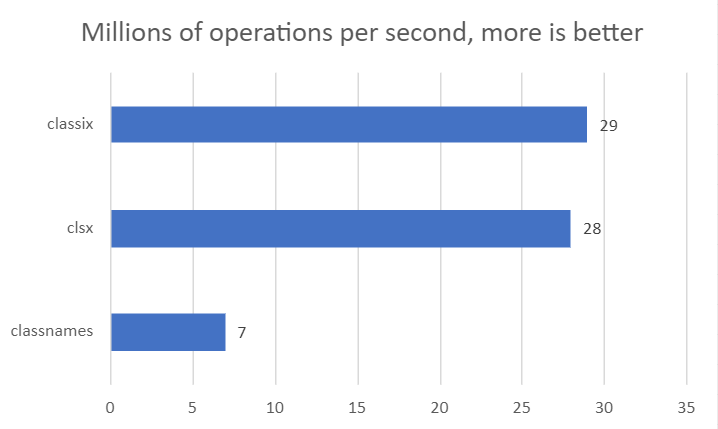
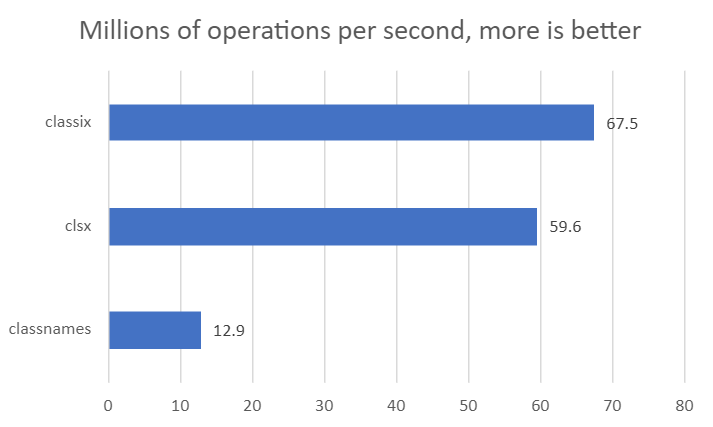
chore: Fix args spread bias in benchmark and compare with published classix (#24)
* chore: Fix args spread bias in benchmark and compare with published classix

* Update perf image

diff --git a/benchmark/index.js b/benchmark/index.js
@@ -1,14 +1,14 @@
 const benchmark = require("benchmark");
 const classnames = require("classnames");
 const { clsx } = require("clsx");
+const { cx } = require("classix");
 
-const { cx } = require("../dist/cjs/classix.js");
-
-const args = ["class1", "class2", false && "class3", true && "class4"];
+const { cx: cxLocal } = require("../dist/cjs/classix.js");
 
 new benchmark.Suite()
-  .add("classnames", () => classnames(...args))
-  .add("clsx", () => clsx(...args))
-  .add("classix", () => cx(...args))
+  .add("classnames", () => classnames("class1", true && "class2"))
+  .add("clsx", () => clsx("class1", true && "class2"))
+  .add("classix", () => cx("class1", true && "class2"))
+  .add("classix (local)", () => cxLocal("class1", true && "class2"))
   .on("cycle", (event) => console.log(event.target.toString()))
   .run();
